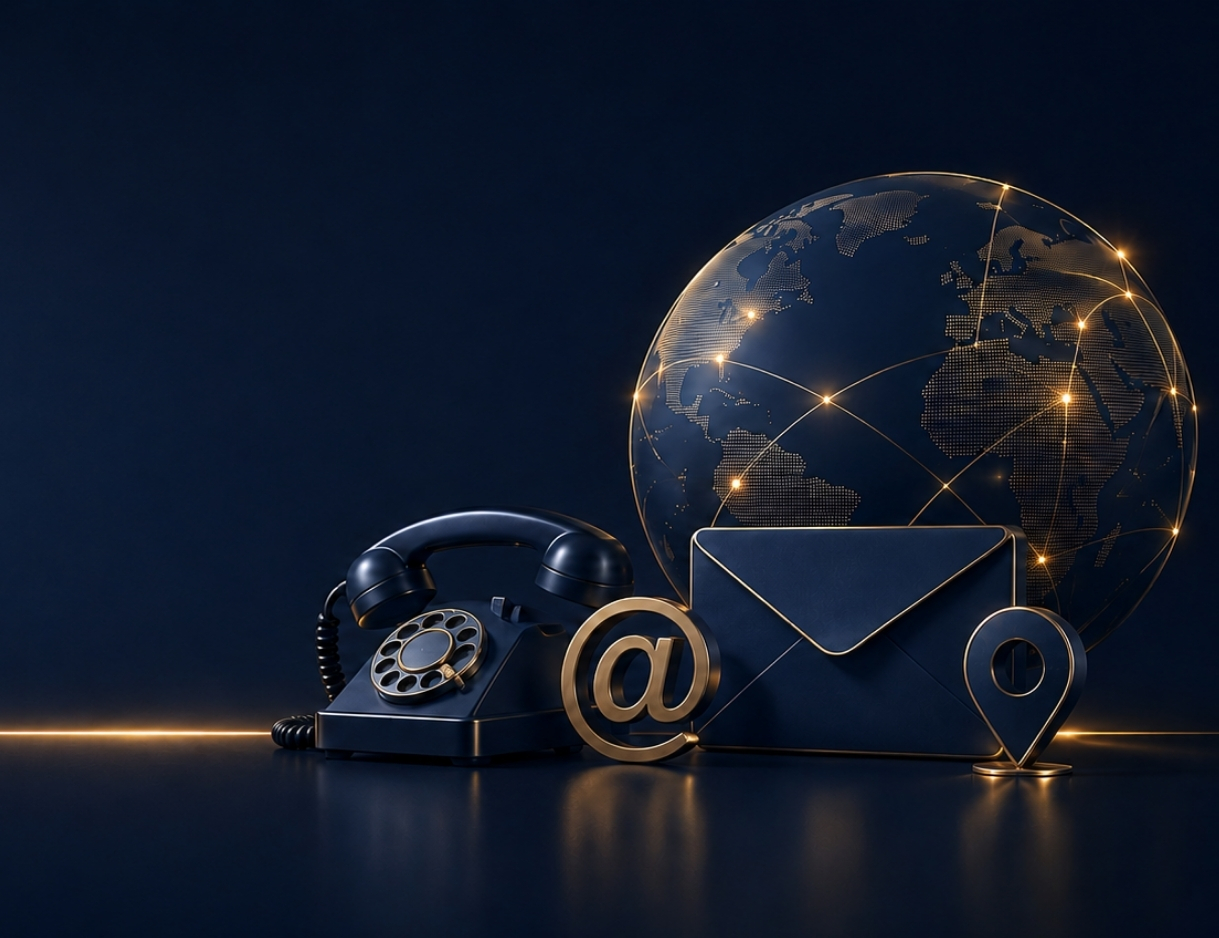
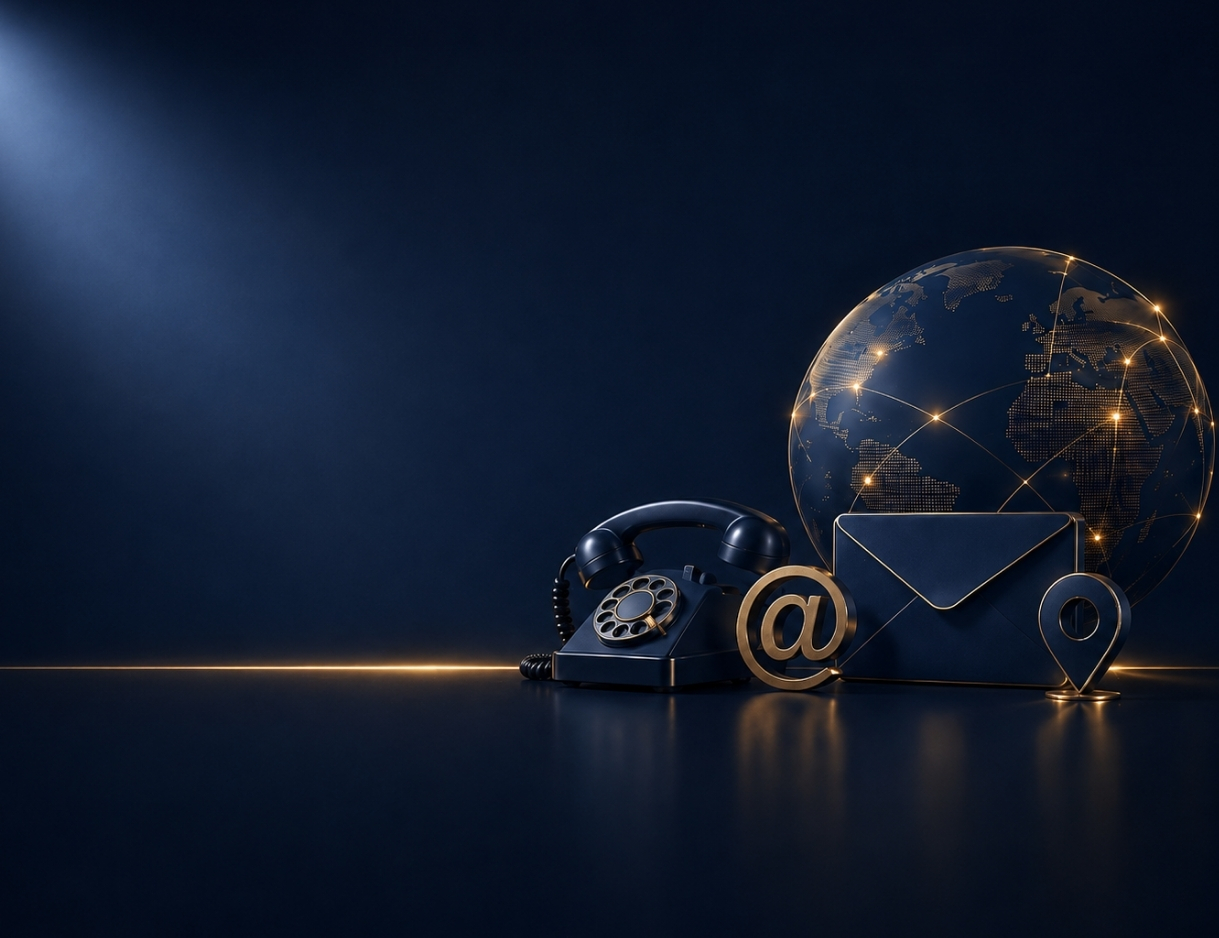
cc

diff --git a/app/products/mutual-funds/page.jsx b/app/products/mutual-funds/page.jsx
@@ -96,16 +96,17 @@ export default function ProductDetailsPage() {
   return (
     <main className="bg-[#f7f9fc] min-h-screen pb-12">
       {/* Top Banner Section */}
-     <HeroSection
-    title={product.title}
-    breadcrumbs={[
-      { label: "Products", href: "/products" },
-      { label: product.title }
-    ]}
-    image="/images/about/Mutual Funds.jpg"
-    height="h-[300px] md:h-[400px]"
-    imageClassName="object-top" // તમારા કમ્પોનન્ટ મુજબ જે પ્રોપ હોય તે વાપરો (દા.ત. className="object-top")
-/>
+      <HeroSection
+        title={product.title}
+        breadcrumbs={[
+          { label: "Products", href: "/products" },
+          { label: product.title }
+        ]}
+        image="/images/about/Mutual Funds.jpg"
+        mobileImage="/images/about/mobile banner/mutual fund mobile.jpg"
+        height="h-[300px] md:h-[400px]"
+        imageClassName="object-top"
+      />
 
       <Container className="mt-12">
         <div className="flex flex-col lg:flex-row gap-10">

diff --git a/app/products/overview/page.jsx b/app/products/overview/page.jsx
@@ -31,15 +31,16 @@ export default function OverviewPage() {
   return (
     <main className="bg-[#f7f9fc] min-h-screen pb-12">
       {/* Top Banner Section with Niche Image */}
-     <HeroSection
-  title="Products Overview"
-  breadcrumbs={[
-    { label: "Products", href: "/products" },
-    { label: "Overview" }
-  ]}
-  image="/images/about/Products Overview.jpg"
-  height="h-[300px] md:h-[400px]"
-/>
+      <HeroSection
+        title="Products Overview"
+        breadcrumbs={[
+          { label: "Products", href: "/products" },
+          { label: "Overview" }
+        ]}
+        image="/images/about/Products Overview.jpg"
+        mobileImage="/images/about/mobile banner/product overview mobile.jpg"
+        height="h-[300px] md:h-[400px]"
+      />
 
       <Container className="mt-12">
         <div className="flex flex-col lg:flex-row gap-10">

diff --git a/app/research/[section]/page.jsx b/app/research/[section]/page.jsx
@@ -70,7 +70,9 @@ export default async function Page({ params }) {
         title={matchedSectionName.charAt(0).toUpperCase() + matchedSectionName.slice(1) + " Research"}
         breadcrumbs={[{ label: "Research", href: "/research" }, { label: matchedSectionName, href: `/research/${section}` }]}
         image="/images/about/research banner.jpg"
-        height="h-[300px] md:h-[400px]" />
+        mobileImage="/images/about/mobile banner/research mobile.jpg"
+        height="h-[300px] md:h-[400px]"
+      />
 
       <ResearchSectionClient
         section={section}

diff --git a/app/products/hnis/page.jsx b/app/products/hnis/page.jsx
@@ -36,10 +36,10 @@ export default function ProductDetailsPage() {
         title={product.title}
         breadcrumbs={[{ label: "Products", href: "/products" }, { label: product.title }]}
         image="/images/about/HNIs.jpg"
+        mobileImage="/images/about/mobile banner/HNIs mobile.jpg"
         height="h-[300px] md:h-[400px]"
         className="object-top"
         imagePosition="object-right sm:object-center"
-      // અથવા imageClassName="object-top" (તમારા પ્રોપ મુજબ)
       />
 
       <Container className="mt-12">

diff --git a/app/investors/financial-information-and-annual-report/page.jsx b/app/investors/financial-information-and-annual-report/page.jsx
@@ -25,11 +25,12 @@ export default async function FinancialInformationPage() {
   return (
     <main className="bg-background min-h-screen">
       <HeroSection 
-        title="Financial Information and Annual Report"
+        title="Financial Information & Annual Report"
         breadcrumbs={[
           { label: "Investors", href: "/investors" },
           { label: "Financial Information" }
         ]}
+        mobileImage="/images/about/mobile banner/investor mobile.jpg"
         height="h-[300px] md:h-[400px]"
       />
 

diff --git a/app/products/equity/page.jsx b/app/products/equity/page.jsx
@@ -33,10 +33,10 @@ export default function ProductDetailsPage() {
           { label: product.title }
         ]}
         image="/images/about/Equities.jpg"
+        mobileImage="/images/about/mobile banner/equity mobile.jpg"
         height="h-[300px] md:h-[400px]"
         imageClassName="object-top"
         imagePosition="object-right sm:object-center"
-      // જો કમ્પોનન્ટમાં આ prop સપોર્ટ કરતો હોય 
       />
 
       <Container className="mt-12">

diff --git a/app/products/wealth-management/page.jsx b/app/products/wealth-management/page.jsx
@@ -36,7 +36,7 @@ export default function ProductDetailsPage() {
         title={product.title}
         breadcrumbs={[{ label: "Products", href: "/products" }, { label: product.title }]}
         image="/images/about/Wealth Management.jpg"
-        mobileImage="/images/about/mobile banner/Wealth Management mb2.jpg"
+        mobileImage="/images/about/mobile banner/wealth management mobile_.jpg"
         height="h-[300px] md:h-[400px]"
         className="object-top"
       />

diff --git a/app/products/commodities/page.jsx b/app/products/commodities/page.jsx
@@ -35,9 +35,9 @@ export default function ProductDetailsPage() {
         title={product.title}
         breadcrumbs={[{ label: "Products", href: "/products" }, { label: product.title }]}
         image="/images/about/Commodities.png"
+        mobileImage="/images/about/mobile banner/Commodities mobile.jpg"
         height="h-[300px] md:h-[400px]"
         imagePosition="object-right sm:object-center"
-
       />
 
       <Container className="mt-12">

diff --git a/app/about/page.jsx b/app/about/page.jsx
@@ -60,7 +60,9 @@ export default function AboutPage() {
         title="About Ratnakar"
         breadcrumbs={[{ label: "About Ratnakar" }]}
         image="/images/about/about us.jpg"
-        height="h-[300px] md:h-[400px]" />
+        mobileImage="/images/about/mobile banner/about us mobile.jpg"
+        height="h-[300px] md:h-[400px]"
+      />
 
       {/* Overview Section */}
       <section id="overview" className="py-12 bg-[#f7f9fc]">

diff --git a/app/products/nris/page.jsx b/app/products/nris/page.jsx
@@ -35,7 +35,8 @@ export default function ProductDetailsPage() {
       <HeroSection
         title={product.title}
         breadcrumbs={[{ label: "Products", href: "/products" }, { label: product.title }]}
-        image="/images/about/HNIs.jpg"
+        image="/images/about/NRIs.jpg"
+        mobileImage="/images/about/mobile banner/NRIs mobile.jpg"
         height="h-[300px] md:h-[400px]"
       />
 

diff --git a/app/products/bonds/page.jsx b/app/products/bonds/page.jsx
@@ -36,6 +36,7 @@ export default function ProductDetailsPage() {
         title={product.title}
         breadcrumbs={[{ label: "Products", href: "/products" }, { label: product.title }]}
         image="/images/about/Bonds.jpg"
+        mobileImage="/images/about/mobile banner/bonds mobile.jpg"
         height="h-[300px] md:h-[400px]"
         imagePosition="object-right sm:object-center"
       />

diff --git a/app/partner-with-us/page.jsx b/app/partner-with-us/page.jsx
@@ -17,6 +17,7 @@ export default function PartnerWithUsPage() {
         title="Partner With Us"
         breadcrumbs={[{ label: "Partner With Us" }]}
         image="/images/about/AboutUs-Ratnakarsec.png"
+        mobileImage="/images/about/mobile banner/investor mobile.jpg"
         height="h-[300px] md:h-[400px]" />
       {/* Form & Content Section */}
       <section className="py-6 md:py-12">
